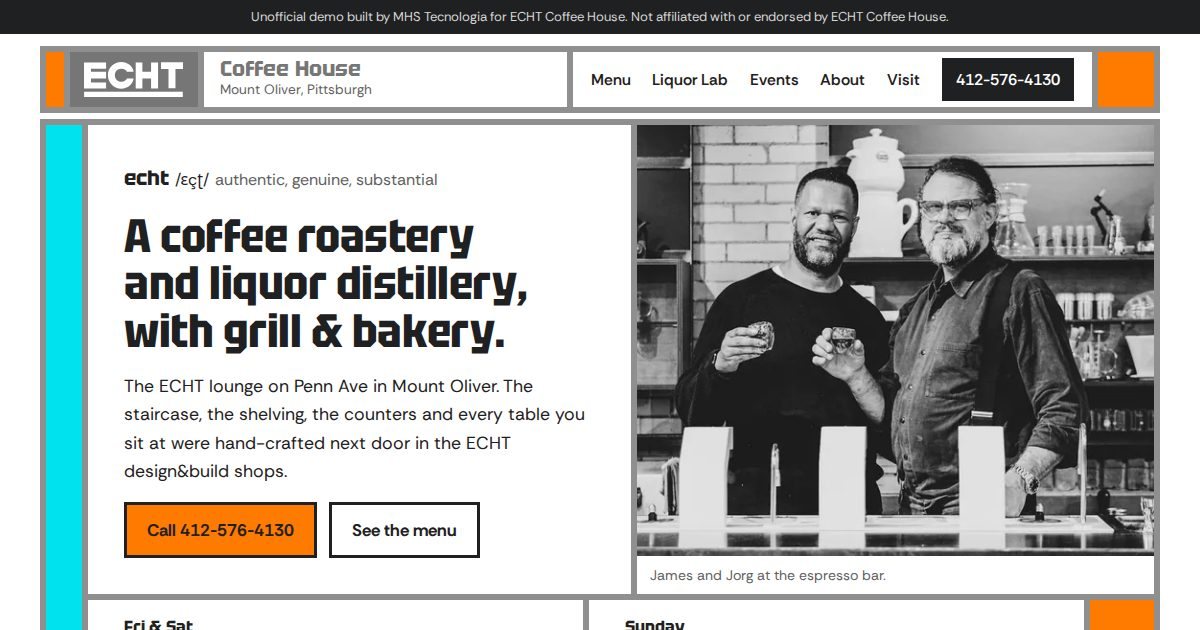
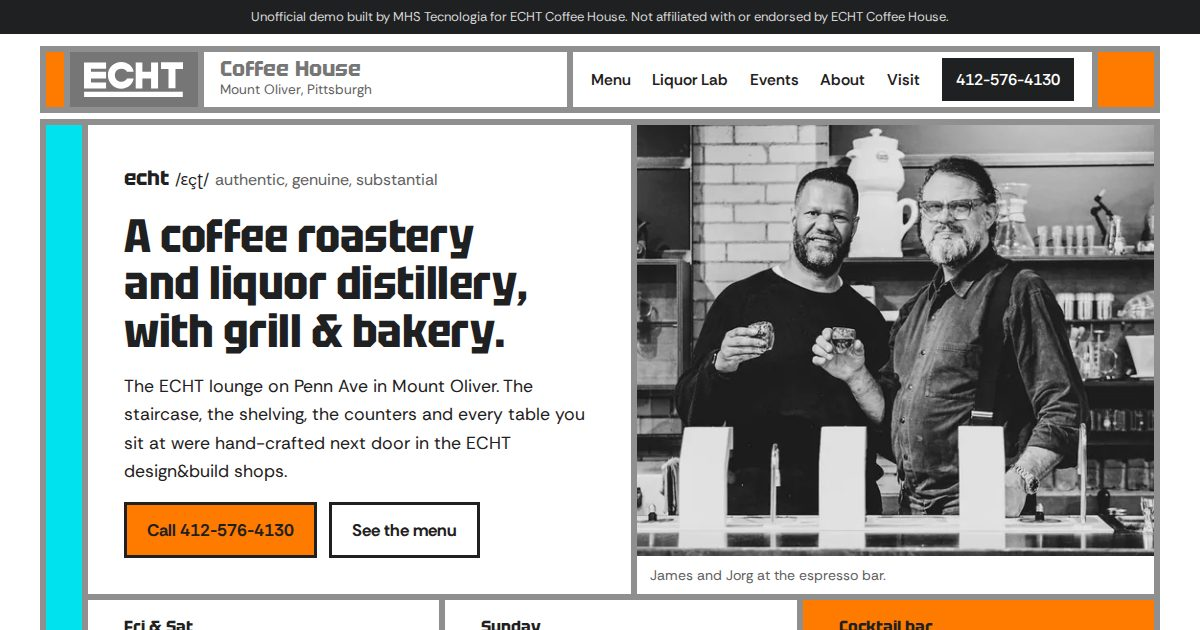
Previews: 113 ativos

diff --git a/echt-coffee-house-pittsburgh-pa/index.html b/echt-coffee-house-pittsburgh-pa/index.html
@@ -81,13 +81,14 @@ p { max-width: 64ch; }
 .dict b { font-family: "Tektur", sans-serif; font-size: 1.3rem; color: var(--ink); margin-right: .35rem; }
 .dict .ipa { color: var(--ink); margin-right: .35rem; }
 .lede { font-size: 1.1rem; }
+.lede .ls { display: none; }
 .hp { grid-row: 1; grid-column: 3; display: flex; flex-direction: column; }
 .hp picture { flex: 1; display: block; min-height: 0; }
 .hp img { width: 100%; height: 100%; object-fit: cover; object-position: 52% 50%; }
 .cap { font-size: .875rem; color: var(--mute); padding: .5rem .8rem; }
-.hfoot { grid-column: 2 / 4; display: grid; grid-template-columns: 1fr 1fr 4rem; gap: var(--rule); background: var(--frame); }
+.hfoot { grid-column: 2 / 4; display: grid; grid-template-columns: 1fr 1fr 1fr; gap: var(--rule); background: var(--frame); }
 .hfoot > * { background: var(--paper); padding: .9rem clamp(1.25rem, 3vw, 2.5rem); font-size: .95rem; }
-.hfoot > .o { background: var(--orange); padding: 0; }
+.hfoot > .o { background: var(--orange); }
 .hfoot b { display: block; font-family: "Tektur", sans-serif; font-size: 1rem; margin-bottom: .15rem; }
 
 /* Load moment: the colour blocks fill in, like a menu page being printed. */
@@ -109,12 +110,12 @@ p { max-width: 64ch; }
 .cut .roof b { font-family: "Tektur", sans-serif; font-size: 1.05rem; }
 .lv-n { padding: 1.1rem 1rem; font-family: "Tektur", sans-serif; font-weight: 700; font-size: 1.15rem; line-height: 1.1; }
 .lv-n small { display: block; font-family: "Rethink Sans", sans-serif; font-weight: 500; font-size: .85rem; color: var(--mute); margin-top: .35rem; }
-.lv-t { padding: 1.25rem clamp(1rem, 2.5vw, 2rem); display: flex; flex-direction: column; gap: .7rem; align-items: flex-start; }
+.lv-t { padding: 1.25rem clamp(1rem, 2.5vw, 2rem); display: flex; flex-direction: column; justify-content: center; gap: .7rem; align-items: flex-start; }
 .lv-t h3 { font-size: clamp(1.35rem, 2.2vw, 1.75rem); }
 .lv-t ul { list-style: none; padding: 0; display: flex; flex-wrap: wrap; gap: .4rem; }
 .lv-t li { border: 2px solid var(--frame); padding: .15rem .55rem; font-size: .9rem; font-weight: 600; }
-.lv-t .go { font-weight: 700; text-decoration-thickness: 2px; text-decoration-color: var(--orange); text-underline-offset: 5px; margin-top: auto; }
-.lv-p img { width: 100%; height: 100%; aspect-ratio: 4 / 3; object-fit: cover; }
+.lv-t .go { font-weight: 700; text-decoration-thickness: 2px; text-decoration-color: var(--orange); text-underline-offset: 5px; margin-top: .3rem; }
+.lv-p img { width: 100%; height: 100%; aspect-ratio: 16 / 10; object-fit: cover; }
 .lv-p.lab img { object-position: 50% 38%; }
 .u-n,.l-n,.b-n { grid-column: 1; } .u-t,.l-t,.b-t { grid-column: 3; } .u-p,.l-p,.b-p { grid-column: 4; }
 .u-n,.u-t,.u-p { grid-row: 2; } .l-n,.l-t,.l-p { grid-row: 3; } .b-n,.b-t,.b-p { grid-row: 4; }
@@ -228,11 +229,18 @@ p { max-width: 64ch; }
   .hero .hs { grid-row: 1 / 4; }
   .hx { grid-column: 2; padding: 1.15rem 1.1rem 1.25rem; gap: .8rem; }
   .hp { grid-column: 2; grid-row: 2; }
-  .hp img { aspect-ratio: 760 / 600; height: auto; }
+  .hp img { aspect-ratio: 760 / 480; height: auto; }
   .hfoot { grid-column: 2; grid-row: 3; grid-template-columns: 1fr 1fr; }
-  .hfoot > .o { display: none; }
+  .hfoot > .o { grid-column: 1 / 3; }
+  .hfoot > .o b { display: inline; margin-right: .4rem; }
   .hfoot > * { padding: .8rem 1rem; font-size: .9rem; }
   .lede { font-size: 1rem; }
+  .lede .lx { display: none; }
+  .lede .ls { display: inline; }
+  .dict { font-size: .9rem; line-height: 1.3; }
+  .dict b { font-size: 1.15rem; }
+  .hero .actions { flex-wrap: nowrap; gap: .5rem; }
+  .hero .actions .btn { flex: 1 1 0; min-width: 0; padding: .55rem .4rem; font-size: .95rem; white-space: nowrap; }
   .btn { min-height: 3rem; padding: .6rem 1rem; }
 
   .cut { grid-template-columns: 3rem minmax(0, 1fr); }
@@ -292,7 +300,7 @@ p { max-width: 64ch; }
     <div class="hx">
       <p class="dict"><b lang="de">echt</b><span class="ipa">/ɛçʈ/</span>authentic, genuine, substantial</p>
       <h1 id="h1">A coffee roastery and liquor distillery, with grill &amp; bakery.</h1>
-      <p class="lede">The ECHT lounge on Penn Ave in Mount Oliver. The staircase, the shelving, the counters and every table you sit at were hand-crafted next door in the ECHT design&amp;build shops.</p>
+      <p class="lede">The ECHT lounge on Penn Ave in Mount Oliver.<span class="lx"> The staircase, the shelving, the counters and every table you sit at were hand-crafted next door in the ECHT design&amp;build shops.</span><span class="ls"> Every table and counter was hand-crafted next door.</span></p>
       <div class="actions"><a class="btn" href="tel:+14125764130">Call 412-576-4130</a><a class="btn ghost" href="menu.html">See the menu</a></div>
     </div>
     <figure class="hp">
@@ -305,7 +313,7 @@ p { max-width: 64ch; }
     <div class="hfoot">
       <div><b>Fri &amp; Sat</b>9am to 9pm, break 3 to 5pm</div>
       <div><b>Sunday</b>10am to 3pm</div>
-      <span class="o" aria-hidden="true"></span>
+      <div class="o"><b>Cocktail bar</b>Opens at 11am</div>
     </div>
   </section>
 </div>

diff --git a/echt-coffee-house-pittsburgh-pa/about.html b/echt-coffee-house-pittsburgh-pa/about.html
@@ -79,13 +79,14 @@ p { max-width: 64ch; }
 .dict b { font-family: "Tektur", sans-serif; font-size: 1.3rem; color: var(--ink); margin-right: .35rem; }
 .dict .ipa { color: var(--ink); margin-right: .35rem; }
 .lede { font-size: 1.1rem; }
+.lede .ls { display: none; }
 .hp { grid-row: 1; grid-column: 3; display: flex; flex-direction: column; }
 .hp picture { flex: 1; display: block; min-height: 0; }
 .hp img { width: 100%; height: 100%; object-fit: cover; object-position: 52% 50%; }
 .cap { font-size: .875rem; color: var(--mute); padding: .5rem .8rem; }
-.hfoot { grid-column: 2 / 4; display: grid; grid-template-columns: 1fr 1fr 4rem; gap: var(--rule); background: var(--frame); }
+.hfoot { grid-column: 2 / 4; display: grid; grid-template-columns: 1fr 1fr 1fr; gap: var(--rule); background: var(--frame); }
 .hfoot > * { background: var(--paper); padding: .9rem clamp(1.25rem, 3vw, 2.5rem); font-size: .95rem; }
-.hfoot > .o { background: var(--orange); padding: 0; }
+.hfoot > .o { background: var(--orange); }
 .hfoot b { display: block; font-family: "Tektur", sans-serif; font-size: 1rem; margin-bottom: .15rem; }
 
 /* Load moment: the colour blocks fill in, like a menu page being printed. */
@@ -107,12 +108,12 @@ p { max-width: 64ch; }
 .cut .roof b { font-family: "Tektur", sans-serif; font-size: 1.05rem; }
 .lv-n { padding: 1.1rem 1rem; font-family: "Tektur", sans-serif; font-weight: 700; font-size: 1.15rem; line-height: 1.1; }
 .lv-n small { display: block; font-family: "Rethink Sans", sans-serif; font-weight: 500; font-size: .85rem; color: var(--mute); margin-top: .35rem; }
-.lv-t { padding: 1.25rem clamp(1rem, 2.5vw, 2rem); display: flex; flex-direction: column; gap: .7rem; align-items: flex-start; }
+.lv-t { padding: 1.25rem clamp(1rem, 2.5vw, 2rem); display: flex; flex-direction: column; justify-content: center; gap: .7rem; align-items: flex-start; }
 .lv-t h3 { font-size: clamp(1.35rem, 2.2vw, 1.75rem); }
 .lv-t ul { list-style: none; padding: 0; display: flex; flex-wrap: wrap; gap: .4rem; }
 .lv-t li { border: 2px solid var(--frame); padding: .15rem .55rem; font-size: .9rem; font-weight: 600; }
-.lv-t .go { font-weight: 700; text-decoration-thickness: 2px; text-decoration-color: var(--orange); text-underline-offset: 5px; margin-top: auto; }
-.lv-p img { width: 100%; height: 100%; aspect-ratio: 4 / 3; object-fit: cover; }
+.lv-t .go { font-weight: 700; text-decoration-thickness: 2px; text-decoration-color: var(--orange); text-underline-offset: 5px; margin-top: .3rem; }
+.lv-p img { width: 100%; height: 100%; aspect-ratio: 16 / 10; object-fit: cover; }
 .lv-p.lab img { object-position: 50% 38%; }
 .u-n,.l-n,.b-n { grid-column: 1; } .u-t,.l-t,.b-t { grid-column: 3; } .u-p,.l-p,.b-p { grid-column: 4; }
 .u-n,.u-t,.u-p { grid-row: 2; } .l-n,.l-t,.l-p { grid-row: 3; } .b-n,.b-t,.b-p { grid-row: 4; }
@@ -226,11 +227,18 @@ p { max-width: 64ch; }
   .hero .hs { grid-row: 1 / 4; }
   .hx { grid-column: 2; padding: 1.15rem 1.1rem 1.25rem; gap: .8rem; }
   .hp { grid-column: 2; grid-row: 2; }
-  .hp img { aspect-ratio: 760 / 600; height: auto; }
+  .hp img { aspect-ratio: 760 / 480; height: auto; }
   .hfoot { grid-column: 2; grid-row: 3; grid-template-columns: 1fr 1fr; }
-  .hfoot > .o { display: none; }
+  .hfoot > .o { grid-column: 1 / 3; }
+  .hfoot > .o b { display: inline; margin-right: .4rem; }
   .hfoot > * { padding: .8rem 1rem; font-size: .9rem; }
   .lede { font-size: 1rem; }
+  .lede .lx { display: none; }
+  .lede .ls { display: inline; }
+  .dict { font-size: .9rem; line-height: 1.3; }
+  .dict b { font-size: 1.15rem; }
+  .hero .actions { flex-wrap: nowrap; gap: .5rem; }
+  .hero .actions .btn { flex: 1 1 0; min-width: 0; padding: .55rem .4rem; font-size: .95rem; white-space: nowrap; }
   .btn { min-height: 3rem; padding: .6rem 1rem; }
 
   .cut { grid-template-columns: 3rem minmax(0, 1fr); }

diff --git a/echt-coffee-house-pittsburgh-pa/events.html b/echt-coffee-house-pittsburgh-pa/events.html
@@ -79,13 +79,14 @@ p { max-width: 64ch; }
 .dict b { font-family: "Tektur", sans-serif; font-size: 1.3rem; color: var(--ink); margin-right: .35rem; }
 .dict .ipa { color: var(--ink); margin-right: .35rem; }
 .lede { font-size: 1.1rem; }
+.lede .ls { display: none; }
 .hp { grid-row: 1; grid-column: 3; display: flex; flex-direction: column; }
 .hp picture { flex: 1; display: block; min-height: 0; }
 .hp img { width: 100%; height: 100%; object-fit: cover; object-position: 52% 50%; }
 .cap { font-size: .875rem; color: var(--mute); padding: .5rem .8rem; }
-.hfoot { grid-column: 2 / 4; display: grid; grid-template-columns: 1fr 1fr 4rem; gap: var(--rule); background: var(--frame); }
+.hfoot { grid-column: 2 / 4; display: grid; grid-template-columns: 1fr 1fr 1fr; gap: var(--rule); background: var(--frame); }
 .hfoot > * { background: var(--paper); padding: .9rem clamp(1.25rem, 3vw, 2.5rem); font-size: .95rem; }
-.hfoot > .o { background: var(--orange); padding: 0; }
+.hfoot > .o { background: var(--orange); }
 .hfoot b { display: block; font-family: "Tektur", sans-serif; font-size: 1rem; margin-bottom: .15rem; }
 
 /* Load moment: the colour blocks fill in, like a menu page being printed. */
@@ -107,12 +108,12 @@ p { max-width: 64ch; }
 .cut .roof b { font-family: "Tektur", sans-serif; font-size: 1.05rem; }
 .lv-n { padding: 1.1rem 1rem; font-family: "Tektur", sans-serif; font-weight: 700; font-size: 1.15rem; line-height: 1.1; }
 .lv-n small { display: block; font-family: "Rethink Sans", sans-serif; font-weight: 500; font-size: .85rem; color: var(--mute); margin-top: .35rem; }
-.lv-t { padding: 1.25rem clamp(1rem, 2.5vw, 2rem); display: flex; flex-direction: column; gap: .7rem; align-items: flex-start; }
+.lv-t { padding: 1.25rem clamp(1rem, 2.5vw, 2rem); display: flex; flex-direction: column; justify-content: center; gap: .7rem; align-items: flex-start; }
 .lv-t h3 { font-size: clamp(1.35rem, 2.2vw, 1.75rem); }
 .lv-t ul { list-style: none; padding: 0; display: flex; flex-wrap: wrap; gap: .4rem; }
 .lv-t li { border: 2px solid var(--frame); padding: .15rem .55rem; font-size: .9rem; font-weight: 600; }
-.lv-t .go { font-weight: 700; text-decoration-thickness: 2px; text-decoration-color: var(--orange); text-underline-offset: 5px; margin-top: auto; }
-.lv-p img { width: 100%; height: 100%; aspect-ratio: 4 / 3; object-fit: cover; }
+.lv-t .go { font-weight: 700; text-decoration-thickness: 2px; text-decoration-color: var(--orange); text-underline-offset: 5px; margin-top: .3rem; }
+.lv-p img { width: 100%; height: 100%; aspect-ratio: 16 / 10; object-fit: cover; }
 .lv-p.lab img { object-position: 50% 38%; }
 .u-n,.l-n,.b-n { grid-column: 1; } .u-t,.l-t,.b-t { grid-column: 3; } .u-p,.l-p,.b-p { grid-column: 4; }
 .u-n,.u-t,.u-p { grid-row: 2; } .l-n,.l-t,.l-p { grid-row: 3; } .b-n,.b-t,.b-p { grid-row: 4; }
@@ -226,11 +227,18 @@ p { max-width: 64ch; }
   .hero .hs { grid-row: 1 / 4; }
   .hx { grid-column: 2; padding: 1.15rem 1.1rem 1.25rem; gap: .8rem; }
   .hp { grid-column: 2; grid-row: 2; }
-  .hp img { aspect-ratio: 760 / 600; height: auto; }
+  .hp img { aspect-ratio: 760 / 480; height: auto; }
   .hfoot { grid-column: 2; grid-row: 3; grid-template-columns: 1fr 1fr; }
-  .hfoot > .o { display: none; }
+  .hfoot > .o { grid-column: 1 / 3; }
+  .hfoot > .o b { display: inline; margin-right: .4rem; }
   .hfoot > * { padding: .8rem 1rem; font-size: .9rem; }
   .lede { font-size: 1rem; }
+  .lede .lx { display: none; }
+  .lede .ls { display: inline; }
+  .dict { font-size: .9rem; line-height: 1.3; }
+  .dict b { font-size: 1.15rem; }
+  .hero .actions { flex-wrap: nowrap; gap: .5rem; }
+  .hero .actions .btn { flex: 1 1 0; min-width: 0; padding: .55rem .4rem; font-size: .95rem; white-space: nowrap; }
   .btn { min-height: 3rem; padding: .6rem 1rem; }
 
   .cut { grid-template-columns: 3rem minmax(0, 1fr); }

diff --git a/echt-coffee-house-pittsburgh-pa/liquor-lab.html b/echt-coffee-house-pittsburgh-pa/liquor-lab.html
@@ -79,13 +79,14 @@ p { max-width: 64ch; }
 .dict b { font-family: "Tektur", sans-serif; font-size: 1.3rem; color: var(--ink); margin-right: .35rem; }
 .dict .ipa { color: var(--ink); margin-right: .35rem; }
 .lede { font-size: 1.1rem; }
+.lede .ls { display: none; }
 .hp { grid-row: 1; grid-column: 3; display: flex; flex-direction: column; }
 .hp picture { flex: 1; display: block; min-height: 0; }
 .hp img { width: 100%; height: 100%; object-fit: cover; object-position: 52% 50%; }
 .cap { font-size: .875rem; color: var(--mute); padding: .5rem .8rem; }
-.hfoot { grid-column: 2 / 4; display: grid; grid-template-columns: 1fr 1fr 4rem; gap: var(--rule); background: var(--frame); }
+.hfoot { grid-column: 2 / 4; display: grid; grid-template-columns: 1fr 1fr 1fr; gap: var(--rule); background: var(--frame); }
 .hfoot > * { background: var(--paper); padding: .9rem clamp(1.25rem, 3vw, 2.5rem); font-size: .95rem; }
-.hfoot > .o { background: var(--orange); padding: 0; }
+.hfoot > .o { background: var(--orange); }
 .hfoot b { display: block; font-family: "Tektur", sans-serif; font-size: 1rem; margin-bottom: .15rem; }
 
 /* Load moment: the colour blocks fill in, like a menu page being printed. */
@@ -107,12 +108,12 @@ p { max-width: 64ch; }
 .cut .roof b { font-family: "Tektur", sans-serif; font-size: 1.05rem; }
 .lv-n { padding: 1.1rem 1rem; font-family: "Tektur", sans-serif; font-weight: 700; font-size: 1.15rem; line-height: 1.1; }
 .lv-n small { display: block; font-family: "Rethink Sans", sans-serif; font-weight: 500; font-size: .85rem; color: var(--mute); margin-top: .35rem; }
-.lv-t { padding: 1.25rem clamp(1rem, 2.5vw, 2rem); display: flex; flex-direction: column; gap: .7rem; align-items: flex-start; }
+.lv-t { padding: 1.25rem clamp(1rem, 2.5vw, 2rem); display: flex; flex-direction: column; justify-content: center; gap: .7rem; align-items: flex-start; }
 .lv-t h3 { font-size: clamp(1.35rem, 2.2vw, 1.75rem); }
 .lv-t ul { list-style: none; padding: 0; display: flex; flex-wrap: wrap; gap: .4rem; }
 .lv-t li { border: 2px solid var(--frame); padding: .15rem .55rem; font-size: .9rem; font-weight: 600; }
-.lv-t .go { font-weight: 700; text-decoration-thickness: 2px; text-decoration-color: var(--orange); text-underline-offset: 5px; margin-top: auto; }
-.lv-p img { width: 100%; height: 100%; aspect-ratio: 4 / 3; object-fit: cover; }
+.lv-t .go { font-weight: 700; text-decoration-thickness: 2px; text-decoration-color: var(--orange); text-underline-offset: 5px; margin-top: .3rem; }
+.lv-p img { width: 100%; height: 100%; aspect-ratio: 16 / 10; object-fit: cover; }
 .lv-p.lab img { object-position: 50% 38%; }
 .u-n,.l-n,.b-n { grid-column: 1; } .u-t,.l-t,.b-t { grid-column: 3; } .u-p,.l-p,.b-p { grid-column: 4; }
 .u-n,.u-t,.u-p { grid-row: 2; } .l-n,.l-t,.l-p { grid-row: 3; } .b-n,.b-t,.b-p { grid-row: 4; }
@@ -226,11 +227,18 @@ p { max-width: 64ch; }
   .hero .hs { grid-row: 1 / 4; }
   .hx { grid-column: 2; padding: 1.15rem 1.1rem 1.25rem; gap: .8rem; }
   .hp { grid-column: 2; grid-row: 2; }
-  .hp img { aspect-ratio: 760 / 600; height: auto; }
+  .hp img { aspect-ratio: 760 / 480; height: auto; }
   .hfoot { grid-column: 2; grid-row: 3; grid-template-columns: 1fr 1fr; }
-  .hfoot > .o { display: none; }
+  .hfoot > .o { grid-column: 1 / 3; }
+  .hfoot > .o b { display: inline; margin-right: .4rem; }
   .hfoot > * { padding: .8rem 1rem; font-size: .9rem; }
   .lede { font-size: 1rem; }
+  .lede .lx { display: none; }
+  .lede .ls { display: inline; }
+  .dict { font-size: .9rem; line-height: 1.3; }
+  .dict b { font-size: 1.15rem; }
+  .hero .actions { flex-wrap: nowrap; gap: .5rem; }
+  .hero .actions .btn { flex: 1 1 0; min-width: 0; padding: .55rem .4rem; font-size: .95rem; white-space: nowrap; }
   .btn { min-height: 3rem; padding: .6rem 1rem; }
 
   .cut { grid-template-columns: 3rem minmax(0, 1fr); }

diff --git a/echt-coffee-house-pittsburgh-pa/menu.html b/echt-coffee-house-pittsburgh-pa/menu.html
@@ -79,13 +79,14 @@ p { max-width: 64ch; }
 .dict b { font-family: "Tektur", sans-serif; font-size: 1.3rem; color: var(--ink); margin-right: .35rem; }
 .dict .ipa { color: var(--ink); margin-right: .35rem; }
 .lede { font-size: 1.1rem; }
+.lede .ls { display: none; }
 .hp { grid-row: 1; grid-column: 3; display: flex; flex-direction: column; }
 .hp picture { flex: 1; display: block; min-height: 0; }
 .hp img { width: 100%; height: 100%; object-fit: cover; object-position: 52% 50%; }
 .cap { font-size: .875rem; color: var(--mute); padding: .5rem .8rem; }
-.hfoot { grid-column: 2 / 4; display: grid; grid-template-columns: 1fr 1fr 4rem; gap: var(--rule); background: var(--frame); }
+.hfoot { grid-column: 2 / 4; display: grid; grid-template-columns: 1fr 1fr 1fr; gap: var(--rule); background: var(--frame); }
 .hfoot > * { background: var(--paper); padding: .9rem clamp(1.25rem, 3vw, 2.5rem); font-size: .95rem; }
-.hfoot > .o { background: var(--orange); padding: 0; }
+.hfoot > .o { background: var(--orange); }
 .hfoot b { display: block; font-family: "Tektur", sans-serif; font-size: 1rem; margin-bottom: .15rem; }
 
 /* Load moment: the colour blocks fill in, like a menu page being printed. */
@@ -107,12 +108,12 @@ p { max-width: 64ch; }
 .cut .roof b { font-family: "Tektur", sans-serif; font-size: 1.05rem; }
 .lv-n { padding: 1.1rem 1rem; font-family: "Tektur", sans-serif; font-weight: 700; font-size: 1.15rem; line-height: 1.1; }
 .lv-n small { display: block; font-family: "Rethink Sans", sans-serif; font-weight: 500; font-size: .85rem; color: var(--mute); margin-top: .35rem; }
-.lv-t { padding: 1.25rem clamp(1rem, 2.5vw, 2rem); display: flex; flex-direction: column; gap: .7rem; align-items: flex-start; }
+.lv-t { padding: 1.25rem clamp(1rem, 2.5vw, 2rem); display: flex; flex-direction: column; justify-content: center; gap: .7rem; align-items: flex-start; }
 .lv-t h3 { font-size: clamp(1.35rem, 2.2vw, 1.75rem); }
 .lv-t ul { list-style: none; padding: 0; display: flex; flex-wrap: wrap; gap: .4rem; }
 .lv-t li { border: 2px solid var(--frame); padding: .15rem .55rem; font-size: .9rem; font-weight: 600; }
-.lv-t .go { font-weight: 700; text-decoration-thickness: 2px; text-decoration-color: var(--orange); text-underline-offset: 5px; margin-top: auto; }
-.lv-p img { width: 100%; height: 100%; aspect-ratio: 4 / 3; object-fit: cover; }
+.lv-t .go { font-weight: 700; text-decoration-thickness: 2px; text-decoration-color: var(--orange); text-underline-offset: 5px; margin-top: .3rem; }
+.lv-p img { width: 100%; height: 100%; aspect-ratio: 16 / 10; object-fit: cover; }
 .lv-p.lab img { object-position: 50% 38%; }
 .u-n,.l-n,.b-n { grid-column: 1; } .u-t,.l-t,.b-t { grid-column: 3; } .u-p,.l-p,.b-p { grid-column: 4; }
 .u-n,.u-t,.u-p { grid-row: 2; } .l-n,.l-t,.l-p { grid-row: 3; } .b-n,.b-t,.b-p { grid-row: 4; }
@@ -226,11 +227,18 @@ p { max-width: 64ch; }
   .hero .hs { grid-row: 1 / 4; }
   .hx { grid-column: 2; padding: 1.15rem 1.1rem 1.25rem; gap: .8rem; }
   .hp { grid-column: 2; grid-row: 2; }
-  .hp img { aspect-ratio: 760 / 600; height: auto; }
+  .hp img { aspect-ratio: 760 / 480; height: auto; }
   .hfoot { grid-column: 2; grid-row: 3; grid-template-columns: 1fr 1fr; }
-  .hfoot > .o { display: none; }
+  .hfoot > .o { grid-column: 1 / 3; }
+  .hfoot > .o b { display: inline; margin-right: .4rem; }
   .hfoot > * { padding: .8rem 1rem; font-size: .9rem; }
   .lede { font-size: 1rem; }
+  .lede .lx { display: none; }
+  .lede .ls { display: inline; }
+  .dict { font-size: .9rem; line-height: 1.3; }
+  .dict b { font-size: 1.15rem; }
+  .hero .actions { flex-wrap: nowrap; gap: .5rem; }
+  .hero .actions .btn { flex: 1 1 0; min-width: 0; padding: .55rem .4rem; font-size: .95rem; white-space: nowrap; }
   .btn { min-height: 3rem; padding: .6rem 1rem; }
 
   .cut { grid-template-columns: 3rem minmax(0, 1fr); }

diff --git a/echt-coffee-house-pittsburgh-pa/visit.html b/echt-coffee-house-pittsburgh-pa/visit.html
@@ -79,13 +79,14 @@ p { max-width: 64ch; }
 .dict b { font-family: "Tektur", sans-serif; font-size: 1.3rem; color: var(--ink); margin-right: .35rem; }
 .dict .ipa { color: var(--ink); margin-right: .35rem; }
 .lede { font-size: 1.1rem; }
+.lede .ls { display: none; }
 .hp { grid-row: 1; grid-column: 3; display: flex; flex-direction: column; }
 .hp picture { flex: 1; display: block; min-height: 0; }
 .hp img { width: 100%; height: 100%; object-fit: cover; object-position: 52% 50%; }
 .cap { font-size: .875rem; color: var(--mute); padding: .5rem .8rem; }
-.hfoot { grid-column: 2 / 4; display: grid; grid-template-columns: 1fr 1fr 4rem; gap: var(--rule); background: var(--frame); }
+.hfoot { grid-column: 2 / 4; display: grid; grid-template-columns: 1fr 1fr 1fr; gap: var(--rule); background: var(--frame); }
 .hfoot > * { background: var(--paper); padding: .9rem clamp(1.25rem, 3vw, 2.5rem); font-size: .95rem; }
-.hfoot > .o { background: var(--orange); padding: 0; }
+.hfoot > .o { background: var(--orange); }
 .hfoot b { display: block; font-family: "Tektur", sans-serif; font-size: 1rem; margin-bottom: .15rem; }
 
 /* Load moment: the colour blocks fill in, like a menu page being printed. */
@@ -107,12 +108,12 @@ p { max-width: 64ch; }
 .cut .roof b { font-family: "Tektur", sans-serif; font-size: 1.05rem; }
 .lv-n { padding: 1.1rem 1rem; font-family: "Tektur", sans-serif; font-weight: 700; font-size: 1.15rem; line-height: 1.1; }
 .lv-n small { display: block; font-family: "Rethink Sans", sans-serif; font-weight: 500; font-size: .85rem; color: var(--mute); margin-top: .35rem; }
-.lv-t { padding: 1.25rem clamp(1rem, 2.5vw, 2rem); display: flex; flex-direction: column; gap: .7rem; align-items: flex-start; }
+.lv-t { padding: 1.25rem clamp(1rem, 2.5vw, 2rem); display: flex; flex-direction: column; justify-content: center; gap: .7rem; align-items: flex-start; }
 .lv-t h3 { font-size: clamp(1.35rem, 2.2vw, 1.75rem); }
 .lv-t ul { list-style: none; padding: 0; display: flex; flex-wrap: wrap; gap: .4rem; }
 .lv-t li { border: 2px solid var(--frame); padding: .15rem .55rem; font-size: .9rem; font-weight: 600; }
-.lv-t .go { font-weight: 700; text-decoration-thickness: 2px; text-decoration-color: var(--orange); text-underline-offset: 5px; margin-top: auto; }
-.lv-p img { width: 100%; height: 100%; aspect-ratio: 4 / 3; object-fit: cover; }
+.lv-t .go { font-weight: 700; text-decoration-thickness: 2px; text-decoration-color: var(--orange); text-underline-offset: 5px; margin-top: .3rem; }
+.lv-p img { width: 100%; height: 100%; aspect-ratio: 16 / 10; object-fit: cover; }
 .lv-p.lab img { object-position: 50% 38%; }
 .u-n,.l-n,.b-n { grid-column: 1; } .u-t,.l-t,.b-t { grid-column: 3; } .u-p,.l-p,.b-p { grid-column: 4; }
 .u-n,.u-t,.u-p { grid-row: 2; } .l-n,.l-t,.l-p { grid-row: 3; } .b-n,.b-t,.b-p { grid-row: 4; }
@@ -226,11 +227,18 @@ p { max-width: 64ch; }
   .hero .hs { grid-row: 1 / 4; }
   .hx { grid-column: 2; padding: 1.15rem 1.1rem 1.25rem; gap: .8rem; }
   .hp { grid-column: 2; grid-row: 2; }
-  .hp img { aspect-ratio: 760 / 600; height: auto; }
+  .hp img { aspect-ratio: 760 / 480; height: auto; }
   .hfoot { grid-column: 2; grid-row: 3; grid-template-columns: 1fr 1fr; }
-  .hfoot > .o { display: none; }
+  .hfoot > .o { grid-column: 1 / 3; }
+  .hfoot > .o b { display: inline; margin-right: .4rem; }
   .hfoot > * { padding: .8rem 1rem; font-size: .9rem; }
   .lede { font-size: 1rem; }
+  .lede .lx { display: none; }
+  .lede .ls { display: inline; }
+  .dict { font-size: .9rem; line-height: 1.3; }
+  .dict b { font-size: 1.15rem; }
+  .hero .actions { flex-wrap: nowrap; gap: .5rem; }
+  .hero .actions .btn { flex: 1 1 0; min-width: 0; padding: .55rem .4rem; font-size: .95rem; white-space: nowrap; }
   .btn { min-height: 3rem; padding: .6rem 1rem; }
 
   .cut { grid-template-columns: 3rem minmax(0, 1fr); }
